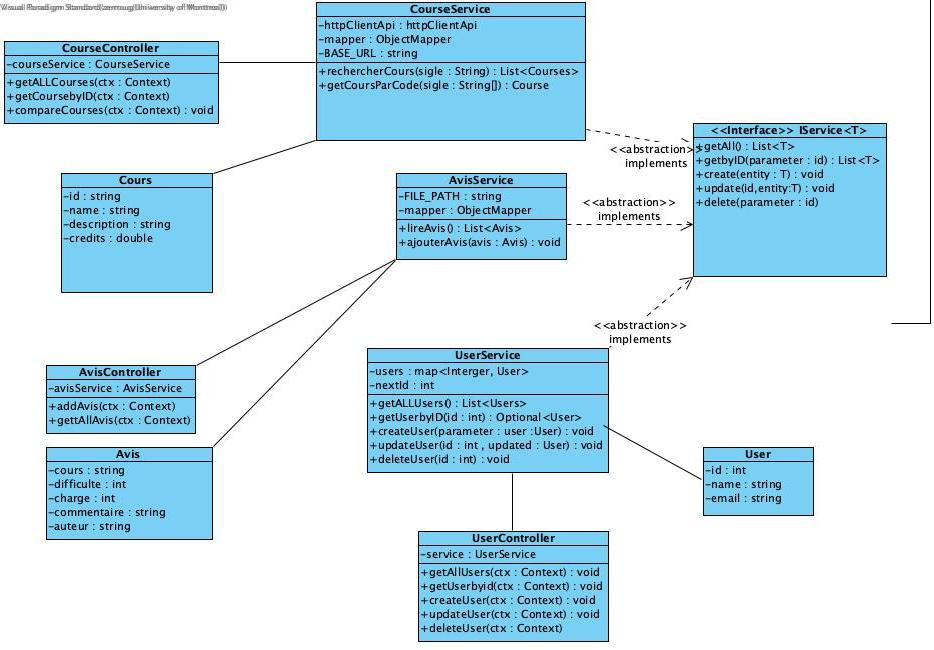
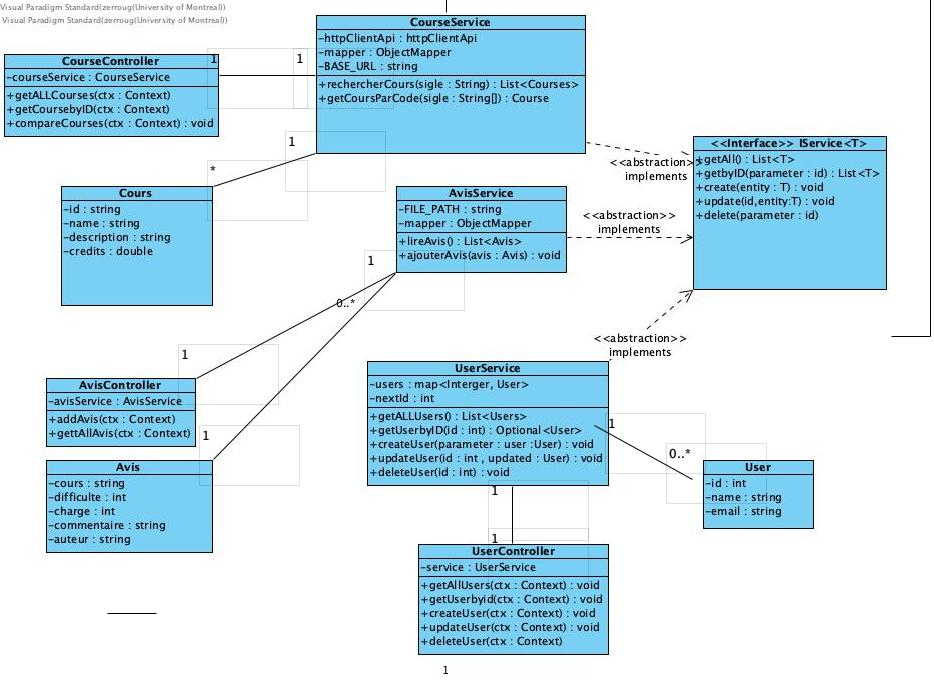
diagrammedeclasse-integrationdufeedback

diff --git a/docs/conception/uml.md b/docs/conception/uml.md
@@ -8,6 +8,59 @@ title: Conception - Diagrammes UML
 
 - Modèle de données orienté objet
 ![Diagramme de classe](../../besoins/diagrammes/diagrammedeclasse.jpg)
+
+
+⸻
+
+CourseController – CourseService
+
+Cardinalité : 1 ↔ 1
+Chaque CourseController utilise un seul CourseService pour exécuter les opérations sur les cours. Le service est injecté comme dépendance dans le contrôleur et contient toute la logique métier.
+
+⸻
+
+CourseService – Cours
+
+Cardinalité : 1 ↔ 0..*
+Un CourseService gère plusieurs objets Cours, par exemple lorsqu’il recherche ou compare des cours. Chaque cours appartient logiquement au service qui le manipule.
+
+⸻
+
+AvisController – AvisService
+
+Cardinalité : 1 ↔ 1
+Le AvisController interagit avec un unique AvisService. Ce service contient les méthodes permettant d’ajouter ou de récupérer des avis depuis un fichier JSON.
+
+⸻
+
+AvisService – Avis
+
+Cardinalité : 1 ↔ 0..*
+Un AvisService gère une collection d’avis (lecture et écriture). Chaque Avis est créé ou lu par ce service.
+
+⸻
+
+UserController – UserService
+
+Cardinalité : 1 ↔ 1
+Chaque UserController possède une seule instance de UserService. Ce dernier regroupe toutes les opérations liées aux utilisateurs (création, mise à jour, suppression).
+
+⸻
+
+UserService – User
+
+Cardinalité : 1 ↔ 0..*
+Le UserService maintient une liste d’utilisateurs dans une structure de type Map. Chaque User est manipulé via ce service unique.
+
+⸻
+
+IService – (Services)
+
+Relation : implémentation (héritage)
+Les classes CourseService, AvisService et UserService implémentent l’interface générique IService<T> afin d’assurer une structure commune aux opérations CRUD.
+
+
+
 ## Diagrammes de séquence
 
 ![Diagramme de sequence](../../besoins/diagrammes/diagrammedesequence1.jpg)
